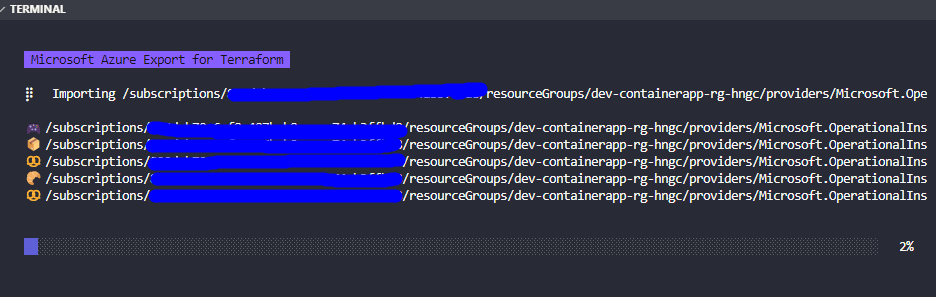
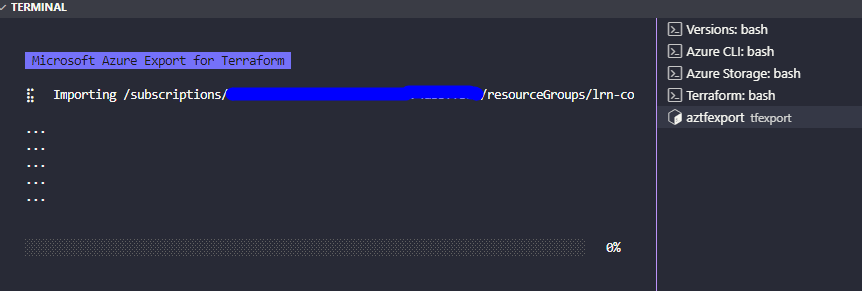
images added and initial blog

diff --git a/docs/_posts/2024-01-07-azure-terraform-export/2024-01-07-azure-terraform-export.md b/docs/_posts/2024-01-07-azure-terraform-export/2024-01-07-azure-terraform-export.md
@@ -13,7 +13,7 @@ The hungovercoders [template.azure.terraform repo](https://github.com/hungoverco
 - [Prerequisites](#prerequisites)
 - [Import the Resources](#import-the-resources)
 - [Validate Terraform Resources with Plan](#validate-terraform-resources-with-plan)
-- [Apply to New Resource Group](#apply-to-new-resource-group)
+- [Apply to a New Resource Group](#apply-to-a-new-resource-group)
 - [Use the Template](#use-the-template)
 
 ## Prerequisites
@@ -43,7 +43,7 @@ mkdir tfexport
 cd tfexport
 ```
 
-You'll then want to select a resoure group that you have permissions on with the account your authenticated with. If you're using the template this will be the account that you have setup with. If you want to do this locally or if you want to change to your individual account for the import, execute the following to change the context to you and the appropriate subscription the resource group resides in, otherwise carry on to the next step.
+You'll then want to select a resource group that you have permissions on with the account your authenticated with. If you're using the template repo this will be the account that you have setup with. If you want to do this locally or if you want to change to your individual account for the import, execute the following to change the context to you and the appropriate subscription the resource group resides in, otherwise carry on to the next step.
 
 ```bash
 az login --use-device-code
@@ -51,17 +51,25 @@ az account set --subscription "your_subcription_name"
 az account show
 ```
 
+The resource group I have chose contains:
+
+- A hello world container app
+- A key vault
+- A serverless cosmos database
+
+![Resource Group Original](images/resource_group_original.png)
+
 Run the following command from that directory with the rg parameter taking in the resource group you want to import. The below imports a resource group called "dev-containerapp-rg-hngc" from the subscription we have authenticated against in the previous setup steps.
 
 ```bash
-aztftexport rg dev-containerapp-rg-hngc
+aztfexport rg lrn-containerapp-rg-hngc
 ```
 
-You should see "initializing" in the terminal. 
+You should see "initializing" in the terminal.
 
 ![Aztfexport Initializing](images/aztfexport_initialising.PNG)
 
-Often there are a load of "skips" you might see as it does not import everything. There are a number of options present though and so I choose "w" which is the import all option.
+Sometimes there are a load of "skips" you might see as it does not have the ability to import absolutely everything, but this hasn't been a problem for me so far as they are usually "behind the scenes" type resources. There are a number of options present though and so for now I choose "w" which is just the import all option.
 
 ![Aztfexport Options](images/aztfexport_options.png)
 
@@ -75,18 +83,79 @@ After a period you should see the appropriate terraform files in the directory t
 
 ## Validate Terraform Resources with Plan
 
-You can then run a terraform plan to validate the infrastructure is as you expect with "no changes" in the output.
+You can then run a terraform plan from the tfexport directory to validate the infrastructure is as you expect with "no changes" in the output.
 
 ```bash
 terraform plan
 ```
 
-![Aztfexport Plan](images/aztfexport_plan.png)
+![Terraform Plan](images/terraform_plan.png)
 
-From here you can move the files into the template "terraform" location and leverage everything that has already been setup in this repo, running terraform plan and apply as you would normally while you develop.
+## Apply to a New Resource Group
 
-I recommend reading further the [microsoft documentation](https://learn.microsoft.com/en-us/azure/developer/terraform/azure-export-for-terraform/export-terraform-overview) and the github [repo](https://github.com/Azure/aztfexport) for the tool to understand how to use it further and for any updates.
+We'll keep this simple and pretend we're going to take this resource group from learning environment (lrn) to the production environment. To do this we're going to create an environment variable and allow us to pass that in to change anything referencing "lrn" to "prd".
 
-## Apply to New Resource Group
+We'll first need to delete the terraform files and migrate the state so that the local state knows that we are going to start referencing brand new resources.
+
+Delete the following files and directories:
+
+- import.tf
+- .terraform.locl.hcl
+- .terraform directory
+
+Then migrate the state:
+
+```bash
+terraform init -migrate-state
+```
+
+![Terraform Migrate](images/terraform_migrate.png)
+
+Then amend the main.tf file to take in the variable and amend all the resources to reference this:
+
+e.g.
+
+```hcl
+variable "environment_shortcode" {
+  type        = string
+  description = "The is the environment shortcode for resources"
+  validation {
+    condition     = contains(["lrn", "dev", "prd"], var.environment)
+    error_message = "The environment shortcode is not valid, it should be lrn, dev or prd."
+  }
+}
+
+resource "azurerm_resource_group" "res-0" {
+  location = "northeurope"
+  name     = "${var.environment_shortcode}-containerapp-rg-hngc"
+  tags = {
+    team = "hungovercoders"
+  }
+}
+
+##repeat for all resources referencing "lrn"
+```
+
+We now run terraform plan and we can see that resources are going to be added.
+
+```bash
+terraform plan
+```
+
+![Terraform Plan New](images/terraform_plan_new.png)
+
+Run terraform apply and watch the new resource group get created identical to the learning environment but in "production".
+
+```bash
+terraform apply
+```
+
+![Terraform Apply](images/terraform_apply_new.png)
+
+In this example the resource group at the end looks like this:
+
+![Resource Group New](images/resource_group_new.png)
 
 ## Use the Template
+
+If you're using the [template](https://github.com/hungovercoders/template.azure.terraform) you can move the imported code into the terraform folder and start tweaking it to meet your needs. This becomes a really quick start to import azure resources into terraform, utilise a cloud developer environment with all the tooling ready and a github actions pipeline ready for you to deploy. Now that is a happy new year!
